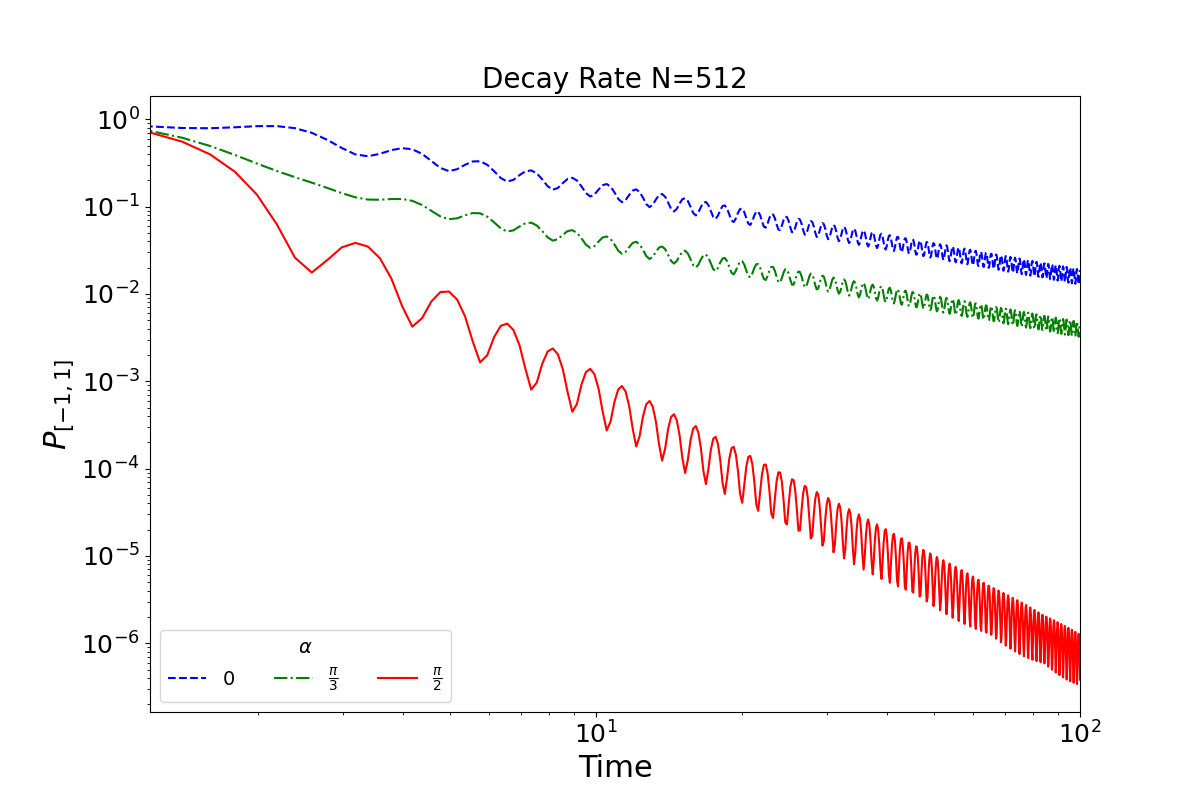
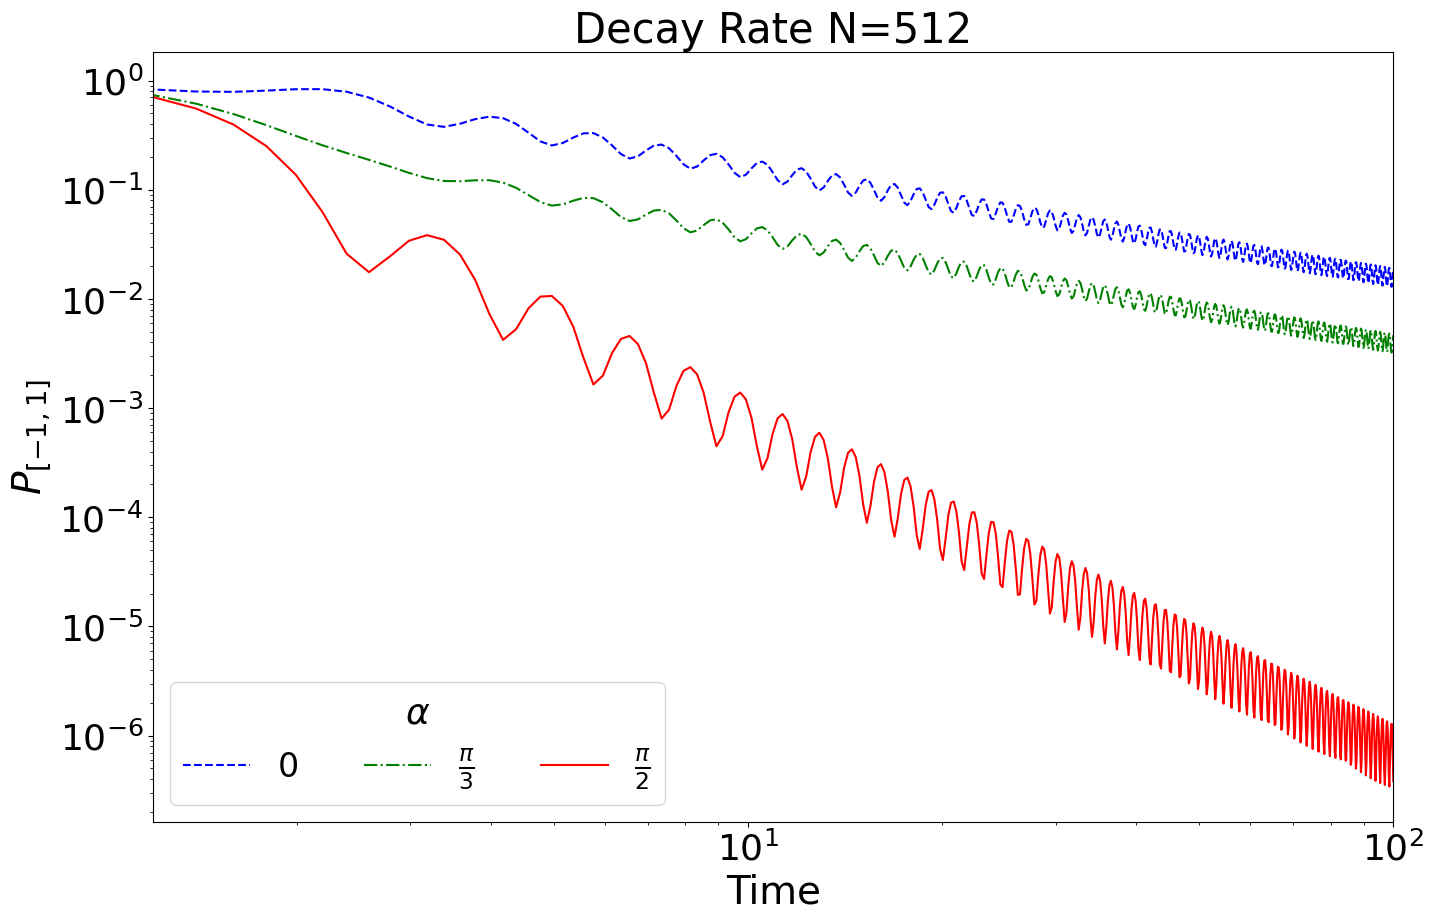
Finished oriented figures

diff --git a/Notebook/run_SurvivalProb-OrientedLine.py b/Notebook/run_SurvivalProb-OrientedLine.py
@@ -1,0 +1,146 @@
+from qwak.qwak import QWAK
+from utils.plotTools import plot_qwak
+import networkx as nx
+import numpy as np
+import matplotlib as mpl
+from matplotlib import pyplot as plt
+import scipy.special as sp
+from scipy.linalg import expm
+import sympy as simp
+import os
+import shutil
+
+def write_nested_list_to_file(file_path, nested_lst):
+    """
+    Write a nested list of elements to a text file.
+    
+    :param file_path: the file path where to write the nested list
+    :param nested_lst: the nested list of elements to write
+    """
+    with open(file_path, 'w') as f:
+        for lst in nested_lst:
+            for item in lst:
+                f.write(f"{item} ")
+            f.write("\n")
+
+def load_nested_list_from_file(file_path):
+    """
+    Load a nested list of float elements from a text file.
+    
+    :param file_path: the file path to load the nested list from
+    :return: the nested list of float elements loaded from the file
+    """
+    nested_lst = []
+    with open(file_path, 'r') as f:
+        for line in f:
+            lst = [float(item) for item in line.strip().split()]
+            nested_lst.append(lst)
+    return nested_lst
+
+def getWeightedGraph(graph,weight):
+    revGraph = graph.reverse()
+    for u,v,d in graph.edges(data=True):
+        d["weight"] = weight
+    for u,v,d in revGraph.edges(data=True):
+        d["weight"] = np.conj(weight)
+    return nx.compose(graph,revGraph)
+
+def multiple_oriented_decayRate(N, k,fromNode, toNode, timeList, baseGraph, alphaList, initCond):
+    decayRateMatrix = []
+    for alpha in alphaList:
+        weight = np.exp(1j * alpha)
+        graph = getWeightedGraph(baseGraph, weight)
+        qw = QWAK(graph)
+        qw.runMultipleWalks(timeList=timeList, customStateList=initCond)
+        decayRateMatrix.append(qw.getSurvivalProbList(fromNode,toNode))
+    return decayRateMatrix
+
+n =  9
+N = 2 ** n
+print(N)
+
+alpha = np.pi / 2
+alphaList = [0, np.pi/ 3, np.pi/ 2 ]
+print(alphaList)
+alphaLabelList = [r'$0$', r'$\frac{\pi}{3}$', r'$\frac{\pi}{2}$']
+
+baseGraph = nx.path_graph(N, create_using=nx.DiGraph)
+
+k = 1
+if k > 0:
+    theta = np.pi / 4
+else:
+    theta = np.pi / 2
+
+l = 0
+gamma = l * np.pi
+
+t = 100 
+samples = 500
+timeList = np.linspace(1, t, samples)
+timeMatrix = [timeList]*len(alphaList)
+initCond = [(N // 2 - k, np.cos(theta)), (N // 2 + k, np.exp(1j * gamma) * np.sin(theta))]
+
+fromNode = N // 2 - k - 1
+toNode = N // 2 + k + 1
+
+SCRIPT_DIR = os.getcwd()
+
+decayRateMatrix_file = os.path.normpath(os.path.join(SCRIPT_DIR, 'Notebook', 'Datasets', 'OrientedDecayRate', 
+    f'decayRateMatrix{N}_NWALKS{len(alphaList)}_Alphas{str([round(a, 2) for a in alphaList]).replace(", ", "-").replace("[", "").replace("]", "")}_S{samples}_TMAX{t}_FROM{fromNode}_TO{toNode}.txt'))
+
+if os.path.exists(decayRateMatrix_file):
+    decayRateMatrix = load_nested_list_from_file(decayRateMatrix_file)
+    print('File exists!')
+else:
+    print('File Doesnt Exist!')
+    decayRateMatrix = multiple_oriented_decayRate(N, k, fromNode, toNode, timeList, baseGraph, alphaList, initCond)
+    if not os.path.exists(decayRateMatrix_file):
+        write_nested_list_to_file(decayRateMatrix_file, decayRateMatrix)
+
+output_dir = os.path.normpath(os.path.join(SCRIPT_DIR, 'Notebook', 'Output', 'OrientedDecayRate'))
+if not os.path.exists(output_dir):
+    os.makedirs(output_dir)
+
+save_path = os.path.join(output_dir, 
+    f'decayRateMatrix{N}_NWALKS{len(alphaList)}_Alphas{str([round(a, 2) for a in alphaList]).replace(", ", "-").replace("[", "").replace("]", "")}_S{samples}_TMAX{t}_FROM{fromNode}_TO{toNode}.png')
+
+params = {
+    'font_size': 24,
+    'figsize': (16, 10),
+    'plot_title': f'Decay Rate N={N}',
+    'x_label': 'Time',
+    'y_label': r"$P_{[-%s,%s]}$" % (k, k),
+    'legend_labels': alphaLabelList,
+    'legend_loc': "lower left",
+    'legend_title': r'$\alpha$',
+    'legend_ncol': 3,
+    'color_list': ['b', 'g', 'r'],
+    'line_style_list': ['--', '-.', '-'],
+    'save_path': save_path,
+    'use_loglog': True,
+    'use_cbar': False,
+    'cbar_label': None,
+    'cbar_ticks': None,
+    'cbar_tick_labels': None,
+    'x_lim': [timeList[1], timeList[-1]],
+    'title_font_size': 46,
+    'xlabel_font_size': 40,
+    'ylabel_font_size': 40,
+    'legend_font_size': 36,
+    'legend_title_font_size': 38,
+    'tick_font_size': 36,
+}
+
+plot_qwak(x_value_matrix=timeMatrix, y_value_matrix=decayRateMatrix, **params)
+
+copy_to_latex = input("Do you want to copy the generated image to the LaTeX project? (y/n): ").strip().lower()
+if copy_to_latex == 'y':
+    latex_project_path = os.path.normpath(os.path.join(
+        SCRIPT_DIR,
+        "../QWAK-Paper_Revised/img/newFigures"
+    ))
+    shutil.copy(params['save_path'], latex_project_path)
+    print(f"Image copied to {latex_project_path}")
+else:
+    print("Image not copied.")

diff --git a/Notebook/run_Searching-Hypercube.py b/Notebook/run_Searching-Hypercube.py
@@ -197,3 +197,6 @@ if copy_to_latex == 'y':
     print(f"Image copied to {latex_project_path}")
 else:
     print("Image not copied.")
+
+
+    
